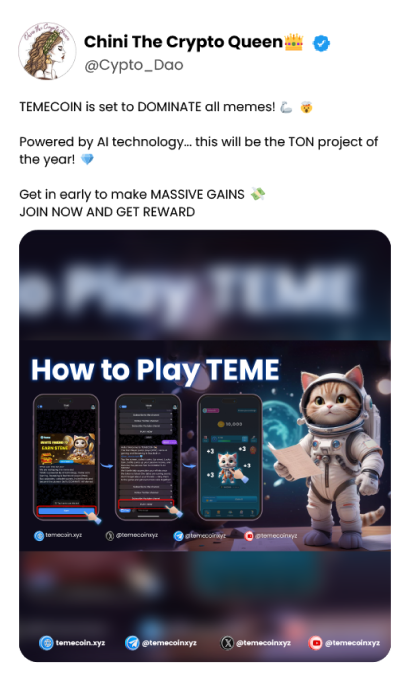
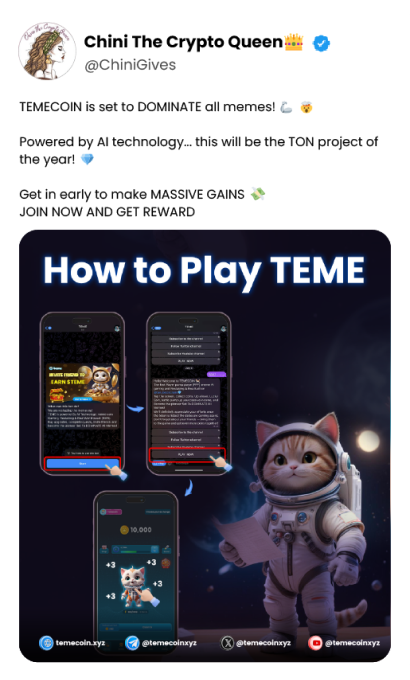
comments

diff --git a/components/comments/index.tsx b/components/comments/index.tsx
@@ -26,7 +26,7 @@ const items = [
     Images: [
       {
         img: require("public/images/comments/comment_4.png"),
-        url: "https://x.com/Cypto_Dao/status/1800824889504678157",
+        url: "https://x.com/chinigives/status/1816733297268928819?s=46&t=O3WoD5RD0UEbPHTghEsg_g",
       },
       {
         img: require("public/images/comments/comment_5.png"),
